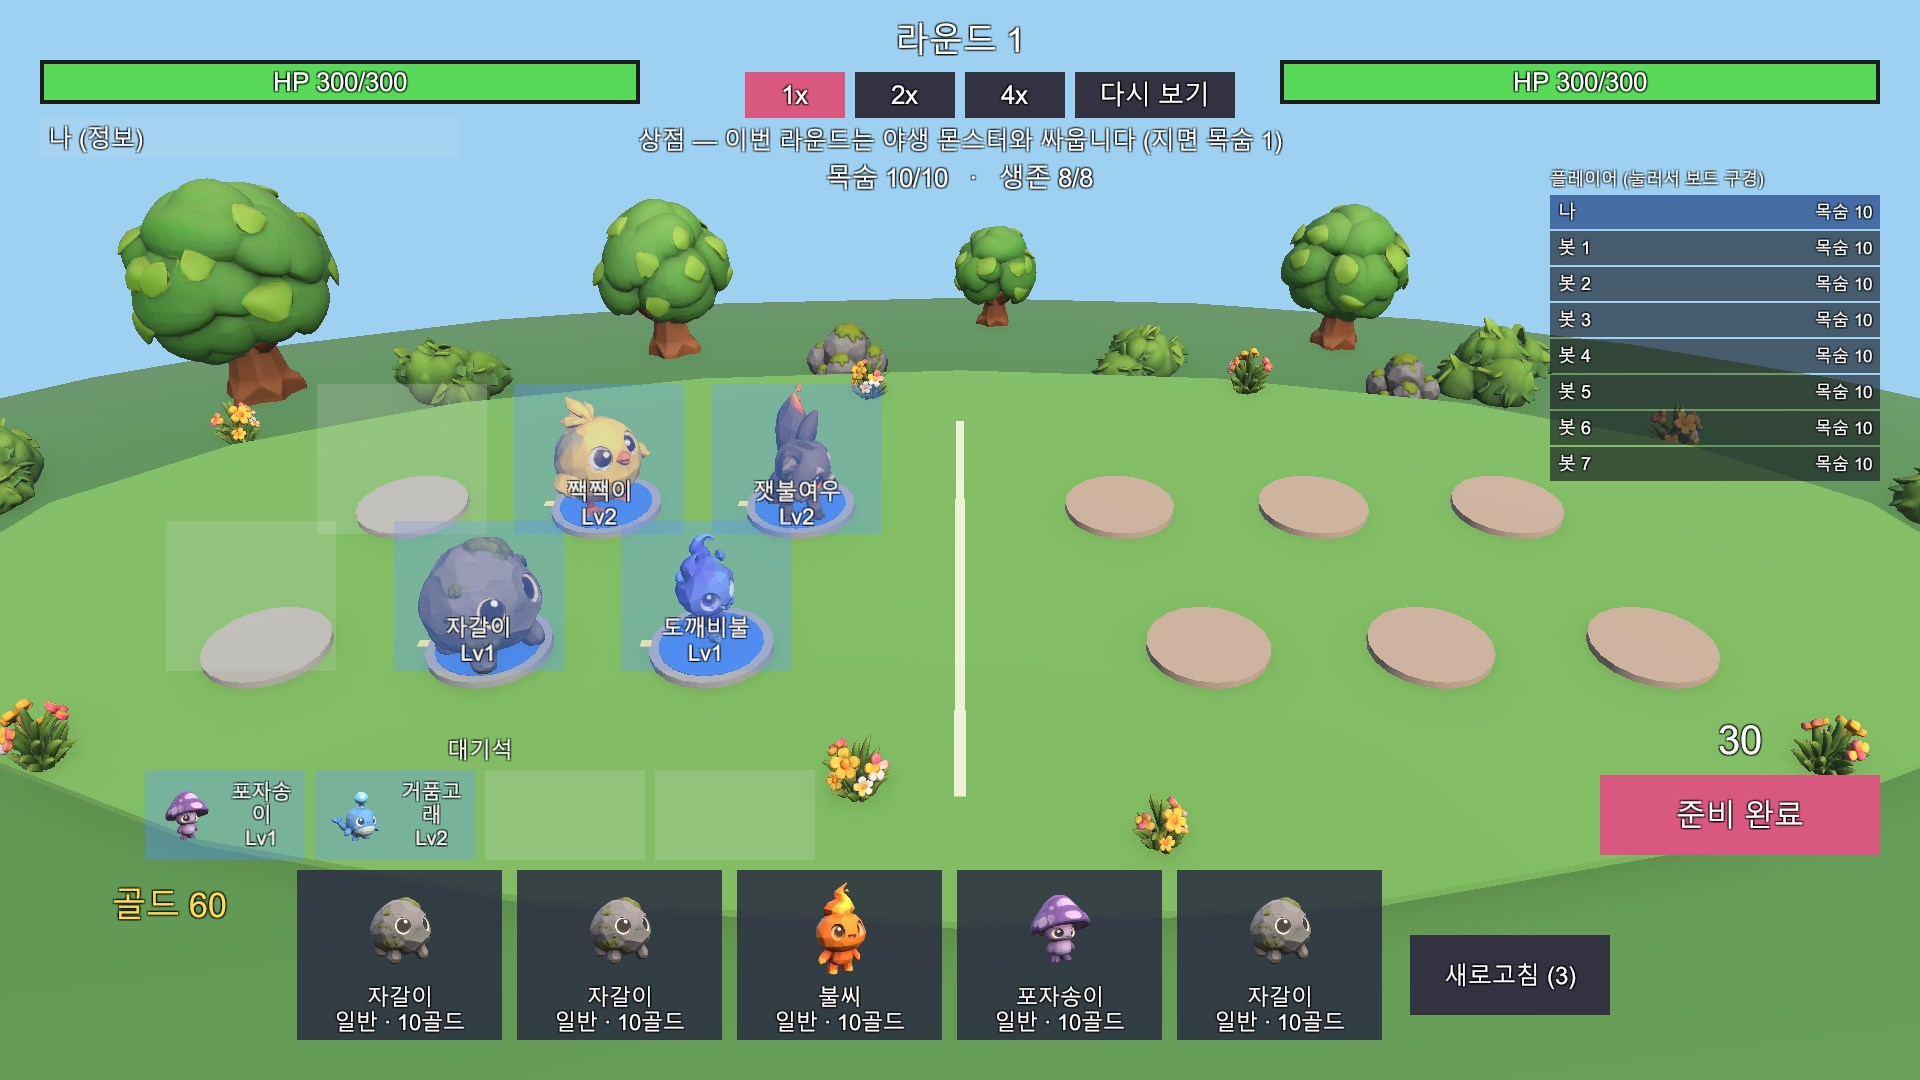
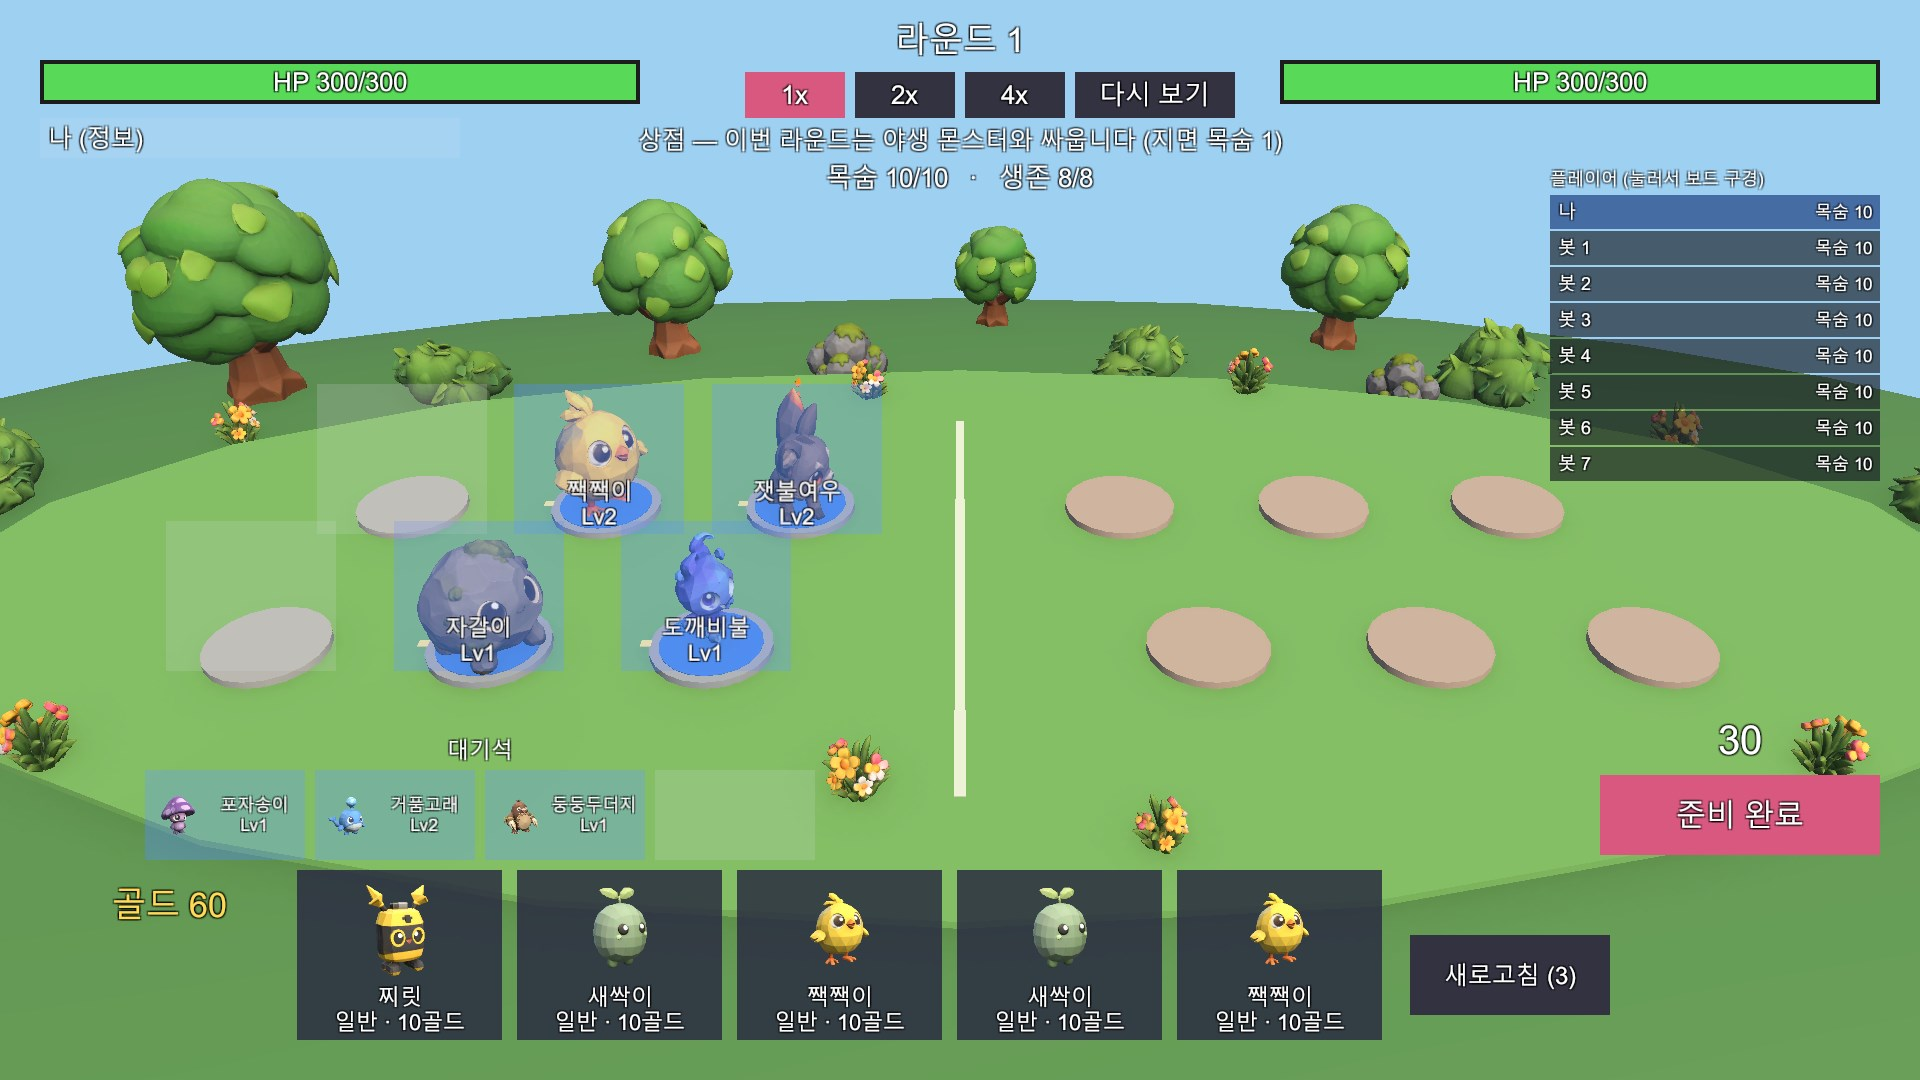
11.09/Portfolio/MoaShowdownTextUpdate

diff --git a/data/games.js b/data/games.js
@@ -229,24 +229,39 @@ window.GAMES = [
     role: "기획 · 프로그래밍 전체",
     engine: "Unity 6 · URP · C#",
     theme: "#ffb84d",                    // 이 게임을 고르면 화면 강조색이 이 색으로 바뀜
-    summary: "몬스터 팀을 3×2 격자에 배치해 8명이 동시에 겨루는 3D 오토 배틀러. 상점에서 몬스터를 사고 합쳐 팀을 키운다.",
-    tags: ["오토 배틀러", "온라인", "결정론적 전투", "테스트"],
+    summary: "몬스터 팀을 3×2 격자에 배치해 8명이 겨루는 3D 오토 배틀러. 캐러셀과 상점에서 몬스터를 모아 합체하고, 능력 조합과 배치로 마지막 1명이 될 때까지 살아남는다. Windows 시연 빌드까지 완성했고, 재미 검증과 2명 이상 온라인 확인을 진행 중이다.",
+    tags: ["오토 배틀러", "온라인", "결정론적 전투", "테스트", "AI 3D 모델", "봇 시뮬레이션"],
     cover: "games/moa-showdown/cover.jpg",
     preview: "",                         // 고를 때 재생되는 짧은 영상, 예: "games/moa-showdown/preview.mp4"
     video: "",                           // 상세 페이지 영상 (YouTube 주소 또는 mp4 경로)
     myWork: [
       "엔진과 분리된 전투 규칙 코드 — 고정 틱 · 정수 계산 · 시드 난수",
-      "상점 · 골드 · 3마리 합체 · 대기석 배치",
+      "상점 · 골드 · 합체(Lv1 3마리 → Lv2, Lv2 2마리 → Lv3) · 대기석 배치",
       "8인 로비: 대진 · 공유 몬스터 풀 · 캐러셀 · PvE 라운드 · 봇",
-      "전투 기록을 시간에 맞춰 재생하는 3D 화면과 코드로 만드는 UI",
-      "수치는 데이터 에셋으로 분리, EditMode 테스트로 규칙 고정"
+      "몬스터 20종과 능력 — 화상 · 독 · 방어막 · 이웃 강화, 승리 · 패배 · 공격 횟수 · 합체 조건의 영구 강화",
+      "온라인: UGS Lobby · Relay 방, 방장이 판 상태를 계산해 나누는 구조, 끊기면 봇이 이어받기 · 방장 넘기기",
+      "전투 기록을 시간에 맞춰 재생하는 3D 화면 — 속성 색 투사체 · 맞는 효과, 코드로 만드는 UI",
+      "AI 3D 모델(Varco) 24종 제작 · Unity 메뉴로 프리팹과 카드 그림 자동 생성",
+      "수치는 데이터 에셋으로 분리, EditMode 테스트로 규칙 고정, 봇 시뮬레이션으로 밸런스 조정"
     ],
     problems: [
       {
         title: "8명이 전투를 각자 계산해도 결과가 같아야 했다",
         problem: "온라인에서 전투 전체를 주고받으면 무겁고, 각자 계산하면 PC마다 결과가 어긋날 수 있다.",
-        solution: "전투 규칙을 엔진을 모르는 순수 C# 코드로 분리하고 float 대신 정수, 용도별 시드 난수, 고정 틱만 쓰도록 제한했다.",
-        result: "라운드마다 팀 정보만 주고받고, 같은 입력이면 어느 PC에서든 같은 전투가 나온다."
+        solution: "전투 규칙을 엔진을 모르는 순수 C# 코드로 분리하고 float 대신 정수, 용도별 시드 난수, 고정 틱만 쓰도록 제한했다. 방장이 판 상태를 나누면 참가자가 같은 전투를 다시 계산해 방장 결과와 비교한다.",
+        result: "시뮬레이션 300판의 전투 18,791건을 다시 계산했을 때 결과가 다른 경우 0건. 실제 2명 이상 플레이 확인은 진행 중이다."
+      },
+      {
+        title: "비싼 몬스터가 오히려 손해였다",
+        problem: "수치표를 계산해 보니 희귀 이상의 골드당 초당 피해(0.6~0.88)가 일반(약 1.1)보다 낮았다.",
+        solution: "강화 후보 3가지를 봇 8명 시뮬레이션으로 비교해 골드당 초당 피해 0.9~1.2로 맞추고, 쉬워진 PvE 팀도 다시 조정했다.",
+        result: "우승 보드의 희귀 이상 비중이 63%에서 84%로 올랐고, 8 · 14라운드 PvE 승률은 약 50%를 유지했다. 봇 기준 값이라 사람의 플레이로 다시 검증한다."
+      },
+      {
+        title: "에디터에서는 멀쩡한 경기장이 빌드에서만 보라색으로 깨졌다",
+        problem: "코드로 만든 기본 도형의 내장 재질이 URP 빌드에서 깨졌는데, 에디터에서는 드러나지 않았다.",
+        solution: "도형 생성을 한 함수로 모으고, 씬이 URP 재질을 직접 참조하게 해 빌드에 셰이더가 포함되도록 했다.",
+        result: "새 빌드의 시작 화면에서 경기장이 정상으로 나오는 것을 확인했고, 연결이 빠지면 잡아내는 테스트를 추가했다."
       },
       {
         title: "공유 몬스터 풀에서 마리 수가 새지 않게",
